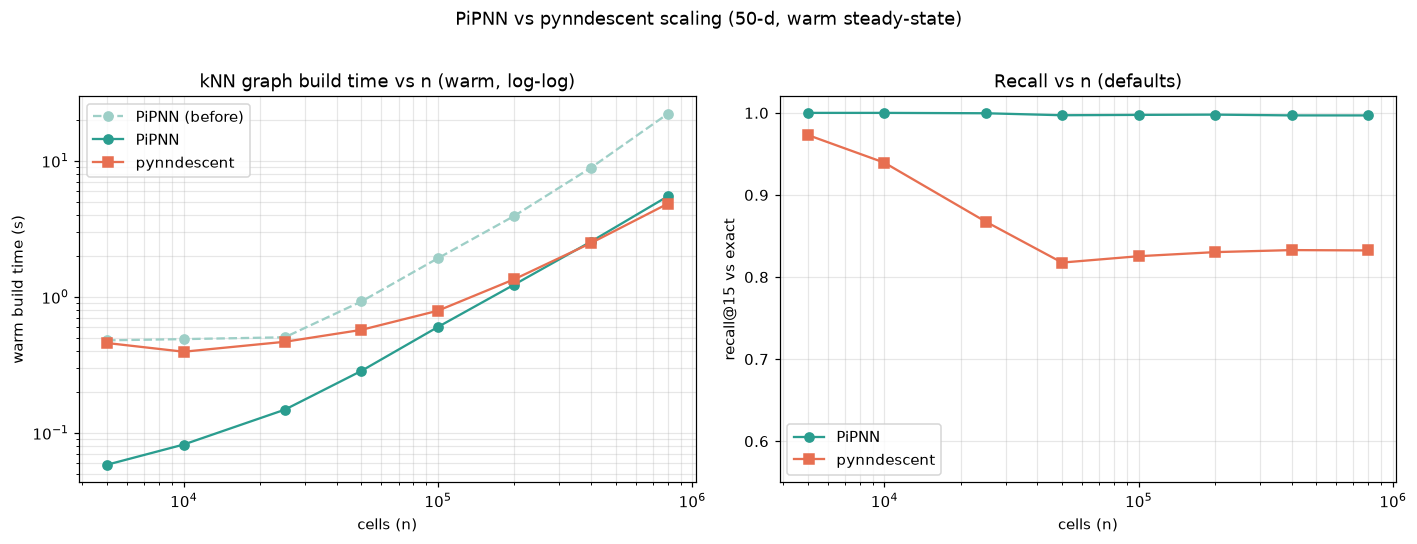
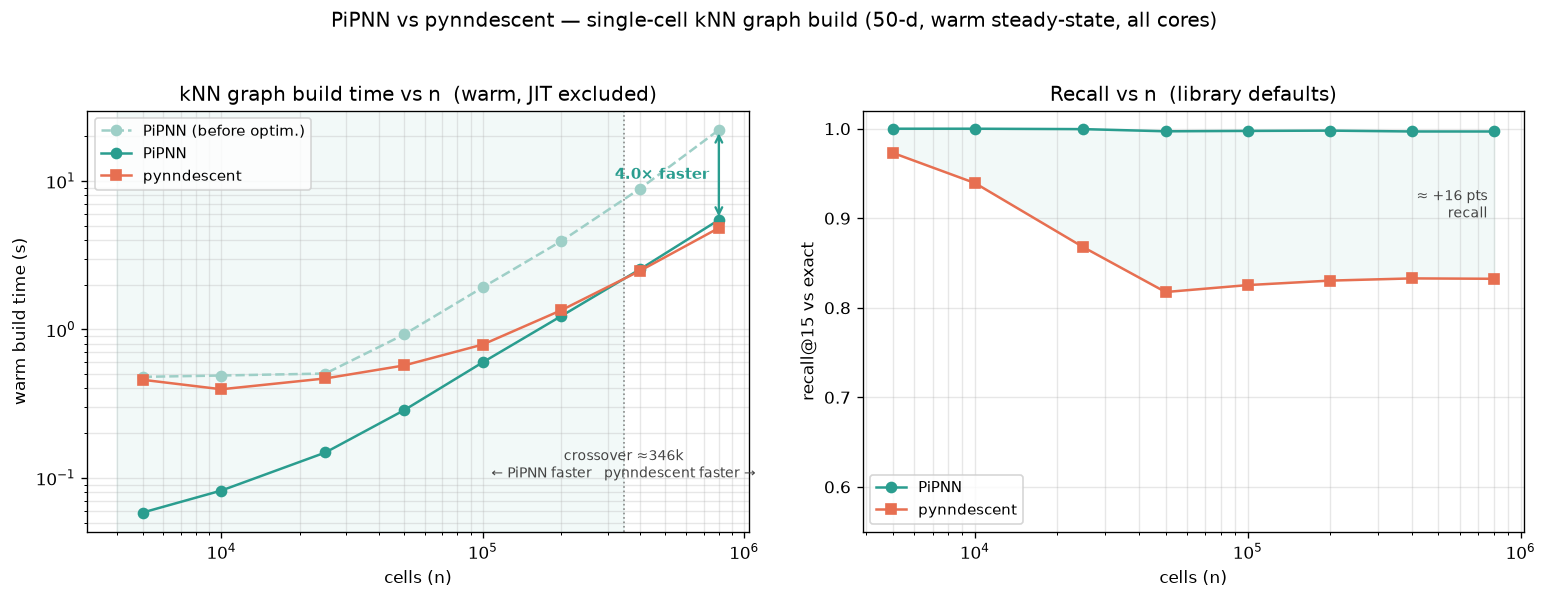
Annotate scaling figure: crossover, 4x before/after gap, recall gap
Adds a 'PiPNN faster' shaded band + interpolated crossover (~346k), a 4.0x
before/after arrow at 800k, and a labeled recall gap (~+16 pts). Regenerated
from existing scaling_results.json (no benchmark re-run).

diff --git a/bench/bench_scaling.py b/bench/bench_scaling.py
@@ -120,41 +120,86 @@ def main():
     print("\nwrote bench/scaling_results.json and bench/scaling.png")
 
 
+def _crossover(ns, pip, pyn):
+    """Interpolate (in log-log) the n where PiPNN and pynndescent build times meet."""
+    import math
+    for i in range(len(ns) - 1):
+        d0, d1 = pip[i] - pyn[i], pip[i + 1] - pyn[i + 1]
+        if d0 == 0:
+            return ns[i]
+        if d0 < 0 <= d1 or d1 < 0 <= d0:  # sign change → crossover in this segment
+            r0 = math.log(pip[i] / pyn[i])
+            r1 = math.log(pip[i + 1] / pyn[i + 1])
+            t = (0 - r0) / (r1 - r0)
+            return math.exp(math.log(ns[i]) + t * (math.log(ns[i + 1]) - math.log(ns[i])))
+    return None
+
+
 def _plot(rows):
     import matplotlib
     matplotlib.use("Agg")
     import matplotlib.pyplot as plt
 
     n = [r["n"] for r in rows]
+    pip = [r["pipnn_s"] for r in rows]
+    pyn = [r["pynnd_s"] for r in rows]
     fig, ax = plt.subplots(1, 2, figsize=(13, 4.8))
+    a0, a1 = ax
 
-    # Optional "before" PiPNN curve for a before/after comparison.
+    # "before" PiPNN curve for the before/after comparison.
     old_path = HERE / "scaling_results_before.json"
-    if old_path.exists():
-        old = json.load(open(old_path))
+    old = json.load(open(old_path)) if old_path.exists() else None
+
+    # --- left: build time vs n (log-log) ---
+    cross = _crossover(n, pip, pyn)
+    if cross:
+        # Shade the region where PiPNN is the faster builder.
+        a0.axvspan(min(n) * 0.8, cross, color="#2a9d8f", alpha=0.06, zorder=0)
+        a0.axvline(cross, color="#888", ls=":", lw=1, zorder=1)
+        a0.annotate(f"crossover ≈{cross/1000:.0f}k\n← PiPNN faster   pynndescent faster →",
+                    xy=(cross, min(pip) * 1.6), ha="center", va="bottom",
+                    fontsize=8.5, color="#444")
+
+    if old:
         on = [r["n"] for r in old]
-        ax[0].plot(on, [r["pipnn_s"] for r in old], "o--", color="#9ecfc7",
-                   label="PiPNN (before)")
+        a0.plot(on, [r["pipnn_s"] for r in old], "o--", color="#9ecfc7",
+                label="PiPNN (before optim.)", zorder=2)
+        # Annotate the before/after gap at the largest shared n.
+        nb, sb = on[-1], old[-1]["pipnn_s"]
+        if nb == n[-1]:
+            sa = pip[-1]
+            a0.annotate("", xy=(nb, sa), xytext=(nb, sb),
+                        arrowprops=dict(arrowstyle="<->", color="#2a9d8f", lw=1.4))
+            a0.annotate(f"{sb/sa:.1f}× faster", xy=(nb, (sa * sb) ** 0.5),
+                        xytext=(-6, 0), textcoords="offset points",
+                        ha="right", va="center", fontsize=9, color="#2a9d8f", fontweight="bold")
 
-    # Build time vs n (log-log).
-    ax[0].plot(n, [r["pipnn_s"] for r in rows], "o-", color="#2a9d8f", label="PiPNN")
-    ax[0].plot(n, [r["pynnd_s"] for r in rows], "s-", color="#e76f51", label="pynndescent")
-    ax[0].set_xscale("log"); ax[0].set_yscale("log")
-    ax[0].set_xlabel("cells (n)"); ax[0].set_ylabel("warm build time (s)")
-    ax[0].set_title("kNN graph build time vs n (warm, log-log)")
-    ax[0].grid(True, which="both", alpha=0.3); ax[0].legend()
+    a0.plot(n, pip, "o-", color="#2a9d8f", label="PiPNN", zorder=3)
+    a0.plot(n, pyn, "s-", color="#e76f51", label="pynndescent", zorder=3)
+    a0.set_xscale("log"); a0.set_yscale("log")
+    a0.set_xlabel("cells (n)"); a0.set_ylabel("warm build time (s)")
+    a0.set_title("kNN graph build time vs n  (warm, JIT excluded)")
+    a0.grid(True, which="both", alpha=0.3); a0.legend(loc="upper left", fontsize=9)
 
-    # Recall vs n — the headline: PiPNN holds, pynndescent (defaults) degrades.
-    ax[1].plot(n, [r["pipnn_recall"] for r in rows], "o-", color="#2a9d8f", label="PiPNN")
-    ax[1].plot(n, [r["pynnd_recall"] for r in rows], "s-", color="#e76f51", label="pynndescent")
-    ax[1].set_xscale("log"); ax[1].set_ylim(0.55, 1.02)
-    ax[1].set_xlabel("cells (n)"); ax[1].set_ylabel("recall@15 vs exact")
-    ax[1].set_title("Recall vs n (defaults)")
-    ax[1].grid(True, which="both", alpha=0.3); ax[1].legend()
+    # --- right: recall vs n ---
+    rp = [r["pipnn_recall"] for r in rows]
+    ry = [r["pynnd_recall"] for r in rows]
+    a1.plot(n, rp, "o-", color="#2a9d8f", label="PiPNN")
+    a1.plot(n, ry, "s-", color="#e76f51", label="pynndescent")
+    # Shade + label the recall gap at the largest n.
+    a1.fill_between(n, ry, rp, color="#2a9d8f", alpha=0.06)
+    a1.annotate(f"≈ +{(rp[-1]-ry[-1])*100:.0f} pts\nrecall", xy=(n[-1], (rp[-1] + ry[-1]) / 2),
+                xytext=(-4, 0), textcoords="offset points", ha="right", va="center",
+                fontsize=8.5, color="#444")
+    a1.set_xscale("log"); a1.set_ylim(0.55, 1.02)
+    a1.set_xlabel("cells (n)"); a1.set_ylabel("recall@15 vs exact")
+    a1.set_title("Recall vs n  (library defaults)")
+    a1.grid(True, which="both", alpha=0.3); a1.legend(loc="lower left", fontsize=9)
 
-    fig.suptitle("PiPNN vs pynndescent scaling (50-d, warm steady-state)", y=1.02)
+    fig.suptitle("PiPNN vs pynndescent — single-cell kNN graph build (50-d, warm steady-state, all cores)",
+                 y=1.03, fontsize=12)
     plt.tight_layout()
-    plt.savefig(HERE / "scaling.png", dpi=110, bbox_inches="tight")
+    plt.savefig(HERE / "scaling.png", dpi=120, bbox_inches="tight")
 
 
 if __name__ == "__main__":